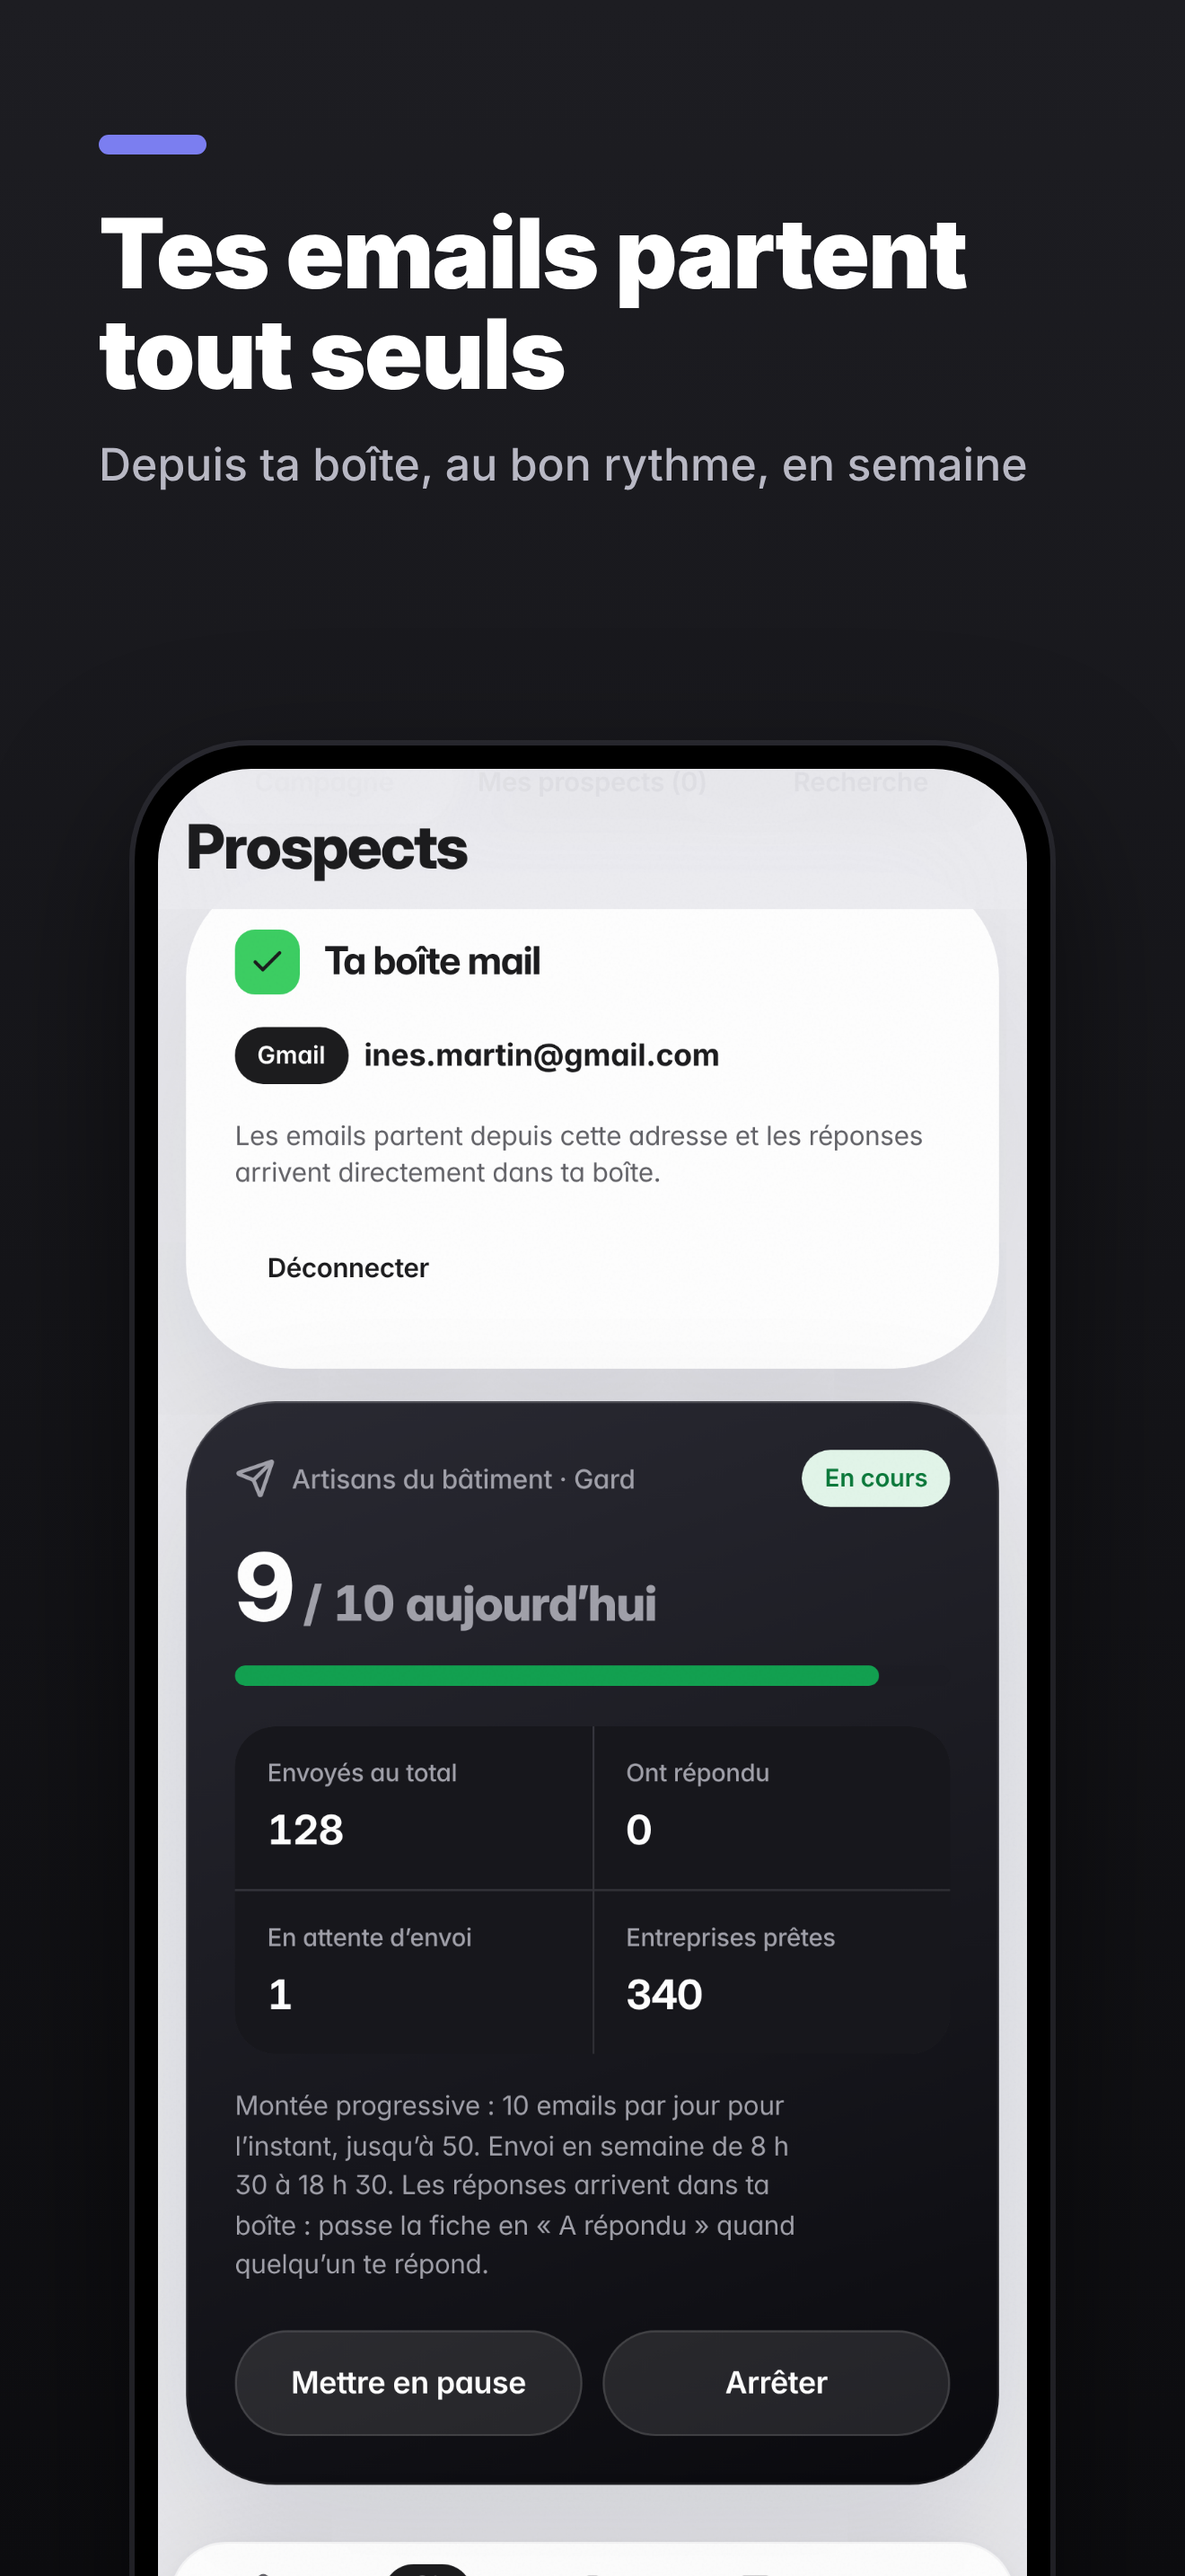
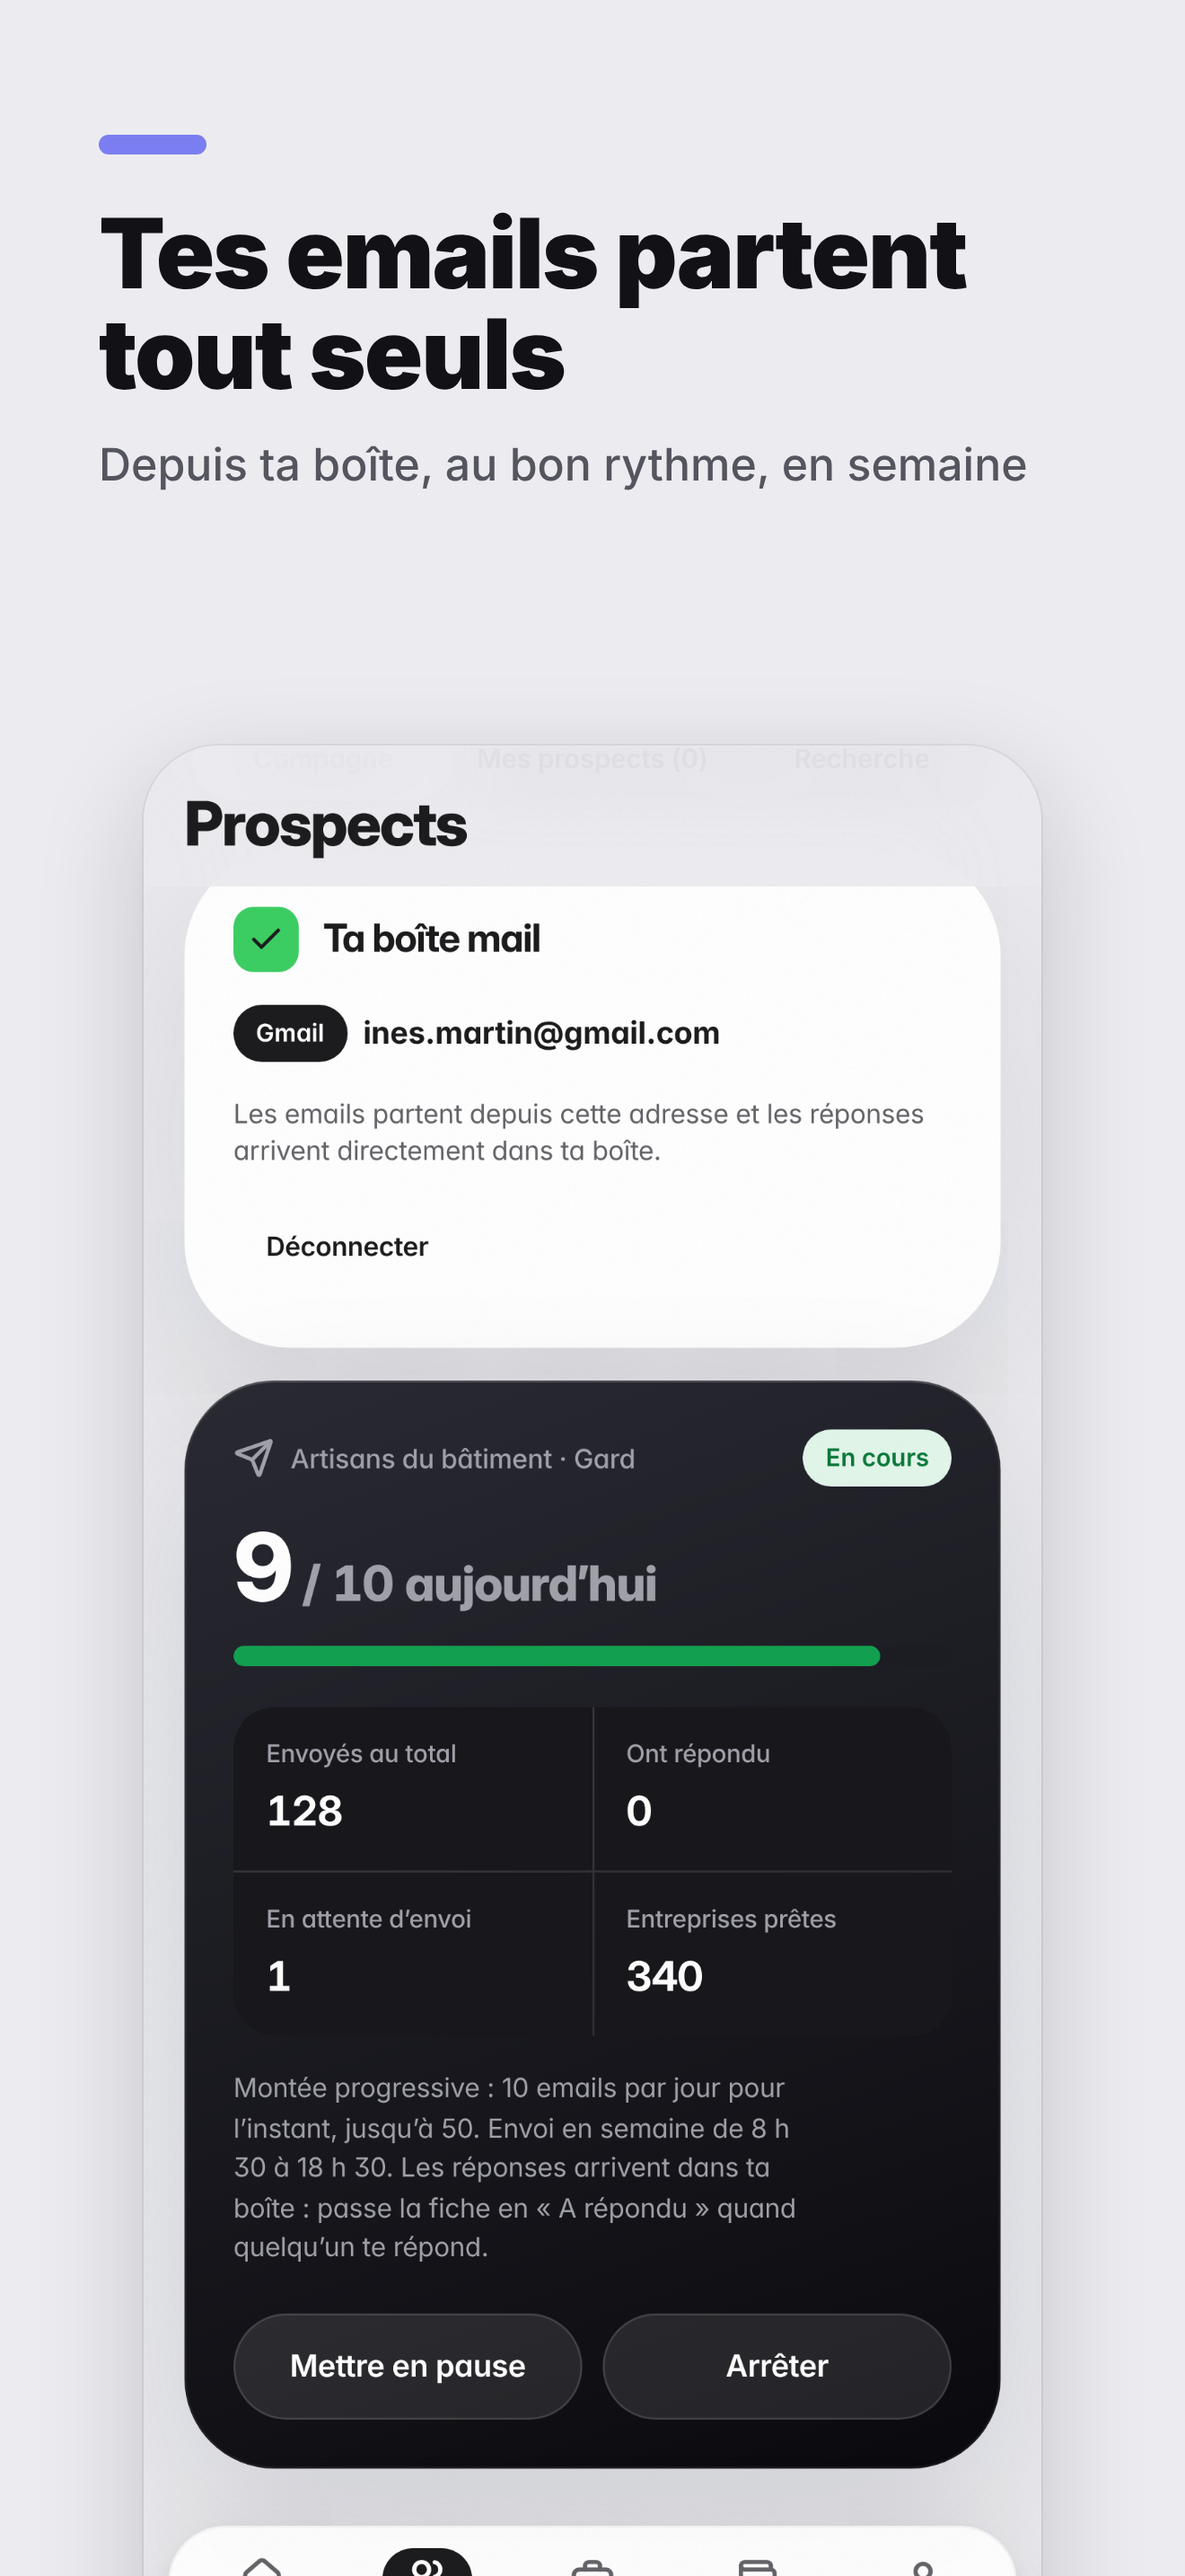
docs(app-store): captures sur fond clair
Claude-Session: https://claude.ai/code/session_01DwqZHCTDNdiB7zAEDRBzxH

diff --git a/e2e/appstore-shots.spec.ts b/e2e/appstore-shots.spec.ts
@@ -4,7 +4,7 @@
  *   APPSTORE=1 pnpm exec playwright test e2e/appstore-shots.spec.ts --project=mobile-390
  * 1. écrans de l'app en mode « application iPhone » (aucun prix ni paiement),
  *    avec des données de DÉMONSTRATION du faux Supabase des tests ;
- * 2. mise en page App Store : une phrase en haut, l'écran dans un cadre.
+ * 2. mise en page App Store : fond clair de l'app, une phrase en haut, l'écran dessous.
  * Résultat dans qa/appstore/. Aucune promesse de gains dans les textes.
  */
 import { mkdirSync, readFileSync } from 'node:fs';
@@ -149,13 +149,13 @@ test('captures App Store', async ({ browser, supabase }) => {
     await frame.setContent(`<!doctype html><html><head><style>
       @font-face { font-family: Inter; src: local('Inter'), local('Helvetica Neue'), local('Arial'); }
       html, body { margin: 0; width: 1320px; height: 2868px; overflow: hidden; }
-      body { background: linear-gradient(180deg, #1d1d22 0%, #0d0d10 100%); font-family: -apple-system, 'Helvetica Neue', Arial, sans-serif; color: #fff; }
+      body { background: #ececf0; font-family: -apple-system, 'Helvetica Neue', Arial, sans-serif; color: #121216; }
       .top { padding: 150px 110px 0; }
       .bar { width: 120px; height: 22px; border-radius: 11px; background: ${f.tone}; margin-bottom: 54px; }
       h1 { font-size: 108px; line-height: 1.04; letter-spacing: -2px; margin: 0 0 34px; font-weight: 900; }
-      p { font-size: 50px; line-height: 1.3; margin: 0; color: #b8b8c4; font-weight: 500; }
-      .phone { position: absolute; left: 50%; top: 830px; width: 1020px; height: 2216px; transform: translateX(-50%); border-radius: 128px; background: #000; padding: 26px; box-sizing: border-box; box-shadow: 0 60px 160px rgba(0,0,0,.55), 0 0 0 6px #2c2c33; }
-      .phone img { width: 100%; height: 100%; object-fit: cover; object-position: top; border-radius: 104px; display: block; }
+      p { font-size: 50px; line-height: 1.3; margin: 0; color: #55555f; font-weight: 500; }
+      .phone { position: absolute; left: 50%; top: 830px; width: 1000px; height: 2172px; transform: translateX(-50%); }
+      .phone img { width: 100%; height: 100%; object-fit: cover; object-position: top; border-radius: 84px; display: block; box-shadow: 0 40px 120px rgba(18,18,22,.18), 0 0 0 2px rgba(18,18,22,.06); }
     </style></head><body>
       <div class="top"><div class="bar"></div><h1>${f.title}</h1><p>${f.sub}</p></div>
       <div class="phone"><img src="${img}" alt=""></div>
